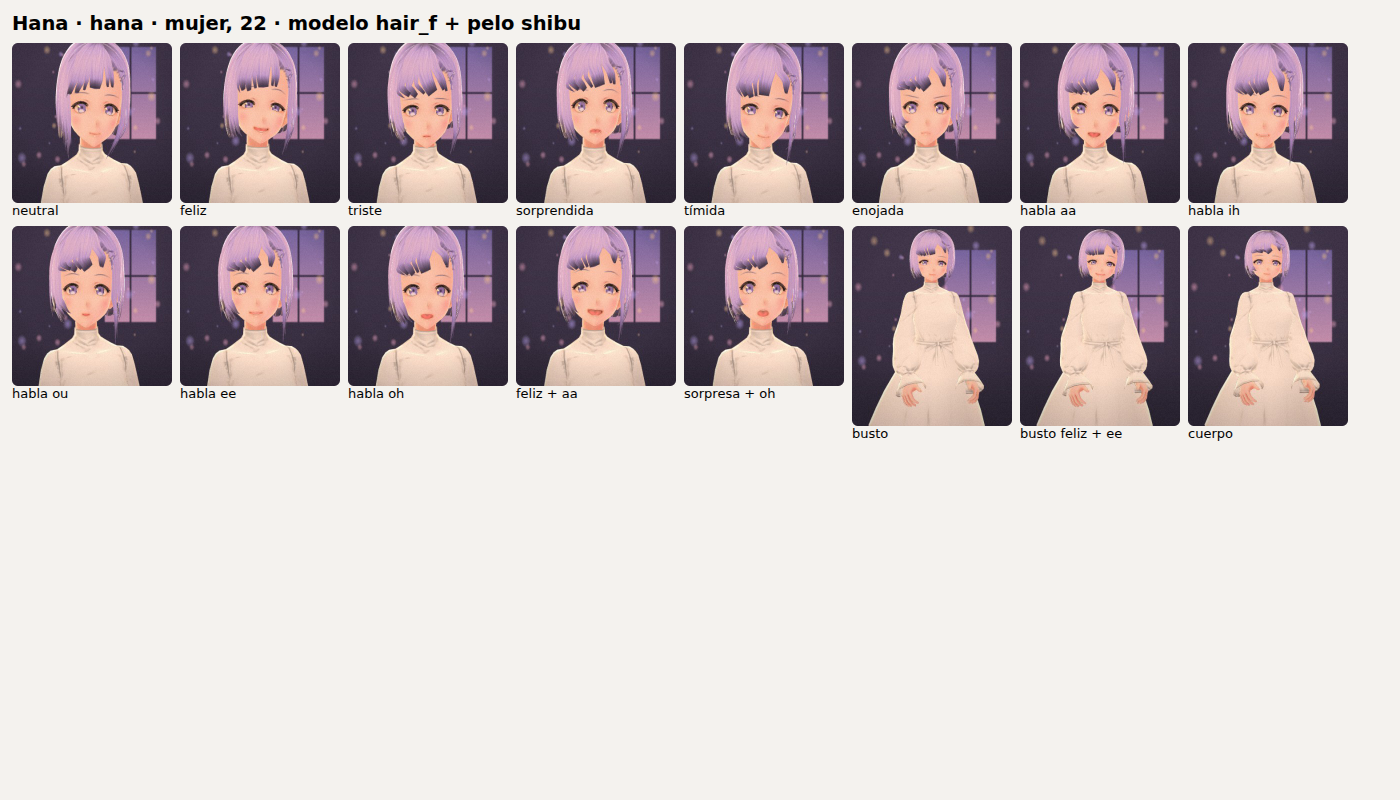
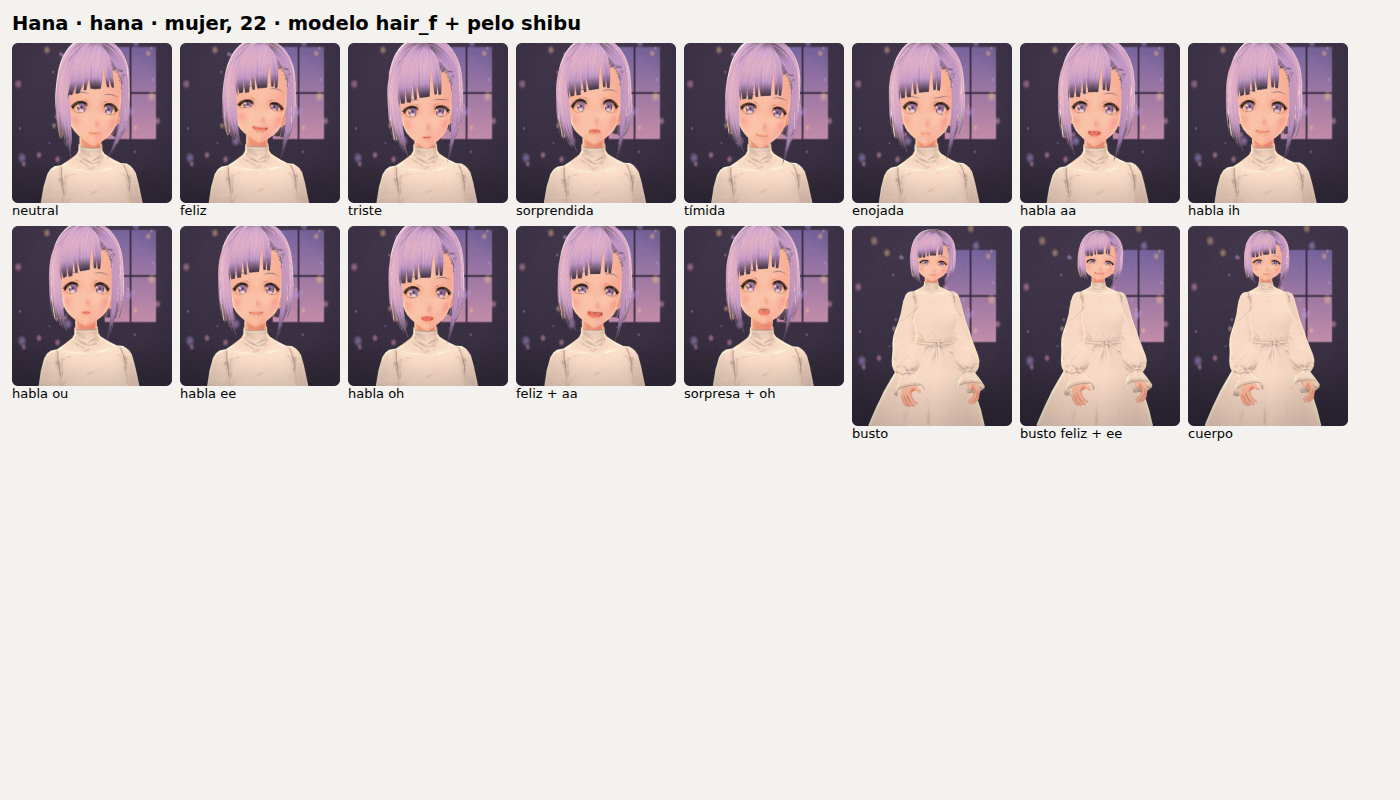
WP-5: hair compatibility rules from the review; QA physics reset fixed
- QA mode resets hair physics to the rest pose captured at load (never saves
  the current pose as rest, which accumulated bangs deformation).
- vita/fumiriya/hair_m hairstyles are only used on their own body; other
  failing body x hairstyle pairs are not offered (brows over bangs, scalp
  mark, face markings over side locks, elf ears cut on twin tails).
- Presets moved off blocked combinations (Luna, Dante, Sora, Victoria, Zoe).

Claude-Session: https://claude.ai/code/session_0188cjAJLeq8GTW6oDs1W4kc

diff --git a/src/lib/character/catalog.ts b/src/lib/character/catalog.ts
@@ -348,11 +348,22 @@ export function hairCompatible(model: string): boolean {
  * por el flequillo, huecos en el cuero cabelludo o marcas de la cara por encima del pelo.
  * Se rellena con la revisión de la matriz cuerpo × peinado (scripts/qa-characters.mjs).
  */
-export const BODY_HAIR_CONFLICTS: Record<string, string[]> = {};
+export const BODY_HAIR_CONFLICTS: Record<string, string[]> = {
+  mei: ['victoria', 'noir'],
+  shibu: ['victoria', 'noir', 'hair_f'],
+  victoria: ['hair_f', 'mei'],
+  noir: ['hair_f'],
+  hair_m: ['hair_f'],
+  // sus marcas de la cara se dibujan por encima de los mechones laterales de otros peinados
+  vita: ['hair_f', 'mei', 'noir', 'shino'],
+};
+/** Peinados que solo encajan en su propio cuerpo (las cejas asoman en casi todos los demás). */
+const OWN_BODY_ONLY_HAIR = ['vita', 'fumiriya', 'hair_m'];
 
 /** ¿Se puede usar el peinado `hair` en el cuerpo `model`? */
 export function hairAllowed(model: string, hair: string): boolean {
   if (hair === model) return true;
+  if (OWN_BODY_ONLY_HAIR.includes(hair)) return false;
   return hairCompatible(model) && !(BODY_HAIR_CONFLICTS[model] ?? []).includes(hair);
 }
 
@@ -443,25 +454,25 @@ export const PRESETS: CharacterPreset[] = [
     id: 'luna', name: 'Luna', gender: 'female', age: 23,
     tagline: { es: 'Extrovertida, juguetona y brillante', en: 'Outgoing, playful and bright' },
     traits: ['extrovert', 'playful', 'optimistic'],
-    look: makeLook({ model: 'mei', hair: 'victoria', hairColor: '#D9AE6A', eyeColor: '#3D7BD9', outfitColor: '#F2C9B8', expression: 'joy', background: 'dawn', voice: v('FGY2WhTYpPnrIDTdsKH5', 1.05, 0.55) }),
+    look: makeLook({ model: 'victoria', hairColor: '#D9AE6A', eyeColor: '#3D7BD9', outfitColor: '#F2C9B8', expression: 'joy', background: 'dawn', voice: v('FGY2WhTYpPnrIDTdsKH5', 1.05, 0.55) }),
   },
   {
     id: 'dante', name: 'Dante', gender: 'male', age: 27,
     tagline: { es: 'Rebelde, intenso y con buen corazón', en: 'Rebellious, intense, good-hearted' },
     traits: ['rebellious', 'dominant', 'protective'],
-    look: makeLook({ model: 'fumiriya', hair: 'hair_m', hairColor: '#C9CBD6', eyeColor: '#E8C04A', plainOutfit: true, expression: 'serious', marks: ['scar'], background: 'city', voice: v('N2lVS1w4EtoT3dr4eOWO', 0.98, 0.4) }),
+    look: makeLook({ model: 'fumiriya', hairColor: '#C9CBD6', eyeColor: '#E8C04A', plainOutfit: true, expression: 'serious', marks: ['scar'], background: 'city', voice: v('N2lVS1w4EtoT3dr4eOWO', 0.98, 0.4) }),
   },
   {
     id: 'victoria', name: 'Victoria', gender: 'female', age: 26,
     tagline: { es: 'Dramática, orgullosa y encantadora', en: 'Dramatic, proud and charming' },
     traits: ['dramatic', 'proud', 'romantic'],
-    look: makeLook({ model: 'victoria', hair: 'mei', hairColor: '#EEE4CF', eyeColor: '#8B5BD6', outfitColor: '#5B3F8C', expression: 'smile', lipColor: '#D9708A', background: 'aurora', voice: v('Xb7hH8MSUJpSbSDYk0k2', 1, 0.5) }),
+    look: makeLook({ model: 'victoria', hair: 'shino', hairColor: '#EEE4CF', eyeColor: '#8B5BD6', outfitColor: '#5B3F8C', expression: 'smile', lipColor: '#D9708A', background: 'aurora', voice: v('Xb7hH8MSUJpSbSDYk0k2', 1, 0.5) }),
   },
   {
     id: 'zoe', name: 'Zoe', gender: 'female', age: 24,
     tagline: { es: 'Rebelde, divertida y sin filtro', en: 'Rebellious, funny and unfiltered' },
     traits: ['rebellious', 'funny', 'confident'],
-    look: makeLook({ model: 'mei', hair: 'noir', hairColor: '#5B3F8C', hairTip: '#5C7FD6', skinTone: '#9A6446', plainOutfit: true, outfitColor: '#8C2F46', expression: 'smug', background: 'city', voice: v('cgSgspJ2msm6clMCkdW9', 1.05, 0.6) }),
+    look: makeLook({ model: 'mei', hair: 'shibu', hairColor: '#5B3F8C', hairTip: '#5C7FD6', skinTone: '#9A6446', plainOutfit: true, outfitColor: '#8C2F46', expression: 'smug', background: 'city', voice: v('cgSgspJ2msm6clMCkdW9', 1.05, 0.6) }),
   },
   {
     id: 'vita', name: 'Vita', gender: 'female', age: 27,
@@ -479,7 +490,7 @@ export const PRESETS: CharacterPreset[] = [
     id: 'sora', name: 'Sora', gender: 'male', age: 25,
     tagline: { es: 'Tranquilo, atento y leal', en: 'Calm, attentive and loyal' },
     traits: ['loyal', 'kind', 'reserved'],
-    look: makeLook({ model: 'hair_m', hair: 'fumiriya', hairColor: '#2B2A3A', hairTip: '#5C7FD6', eyeColor: '#3D7BD9', plainOutfit: true, outfitColor: '#56708F', expression: 'calm', accessories: ['headphones'], background: 'dusk', voice: v('bIHbv24MWmeRgasZH58o', 1, 0.25) }),
+    look: makeLook({ model: 'hair_m', hairColor: '#2B2A3A', hairTip: '#5C7FD6', eyeColor: '#3D7BD9', plainOutfit: true, outfitColor: '#56708F', expression: 'calm', accessories: ['headphones'], background: 'dusk', voice: v('bIHbv24MWmeRgasZH58o', 1, 0.25) }),
   },
 ];
 

diff --git a/avatar-stage/stage.html b/avatar-stage/stage.html
@@ -1425,8 +1425,9 @@ async function handle(msg) {
     if (current.qa) {
       gazeYaw = gazePitch = 0; glanceEnd = 0; nextGlance = Infinity;
       // el pelo se coloca en la postura nueva antes de la foto (si no, un mechón puede salir volando)
-      for (let i = 0; i < 3; i++) step(1 / 60, clock.elapsedTime);
-      for (const v of [current.vrm, current.hairVrm]) { v?.springBoneManager?.setInitState(); v?.springBoneManager?.reset(); }
+      // vuelve al reposo capturado al cargar (nunca se guarda la postura actual como reposo:
+      // eso acumulaba la deformación del flequillo en cada cambio)
+      for (const v of [current.vrm, current.hairVrm]) v?.springBoneManager?.reset();
       for (let i = 0; i < 90; i++) step(1 / 60, clock.elapsedTime);
     }
     else nextGlance = clock.elapsedTime + 3;

diff --git a/src/lib/avatarStageHtml.ts b/src/lib/avatarStageHtml.ts
@@ -1426,8 +1426,9 @@ async function handle(msg) {
     if (current.qa) {
       gazeYaw = gazePitch = 0; glanceEnd = 0; nextGlance = Infinity;
       // el pelo se coloca en la postura nueva antes de la foto (si no, un mechón puede salir volando)
-      for (let i = 0; i < 3; i++) step(1 / 60, clock.elapsedTime);
-      for (const v of [current.vrm, current.hairVrm]) { v?.springBoneManager?.setInitState(); v?.springBoneManager?.reset(); }
+      // vuelve al reposo capturado al cargar (nunca se guarda la postura actual como reposo:
+      // eso acumulaba la deformación del flequillo en cada cambio)
+      for (const v of [current.vrm, current.hairVrm]) v?.springBoneManager?.reset();
       for (let i = 0; i < 90; i++) step(1 / 60, clock.elapsedTime);
     }
     else nextGlance = clock.elapsedTime + 3;
